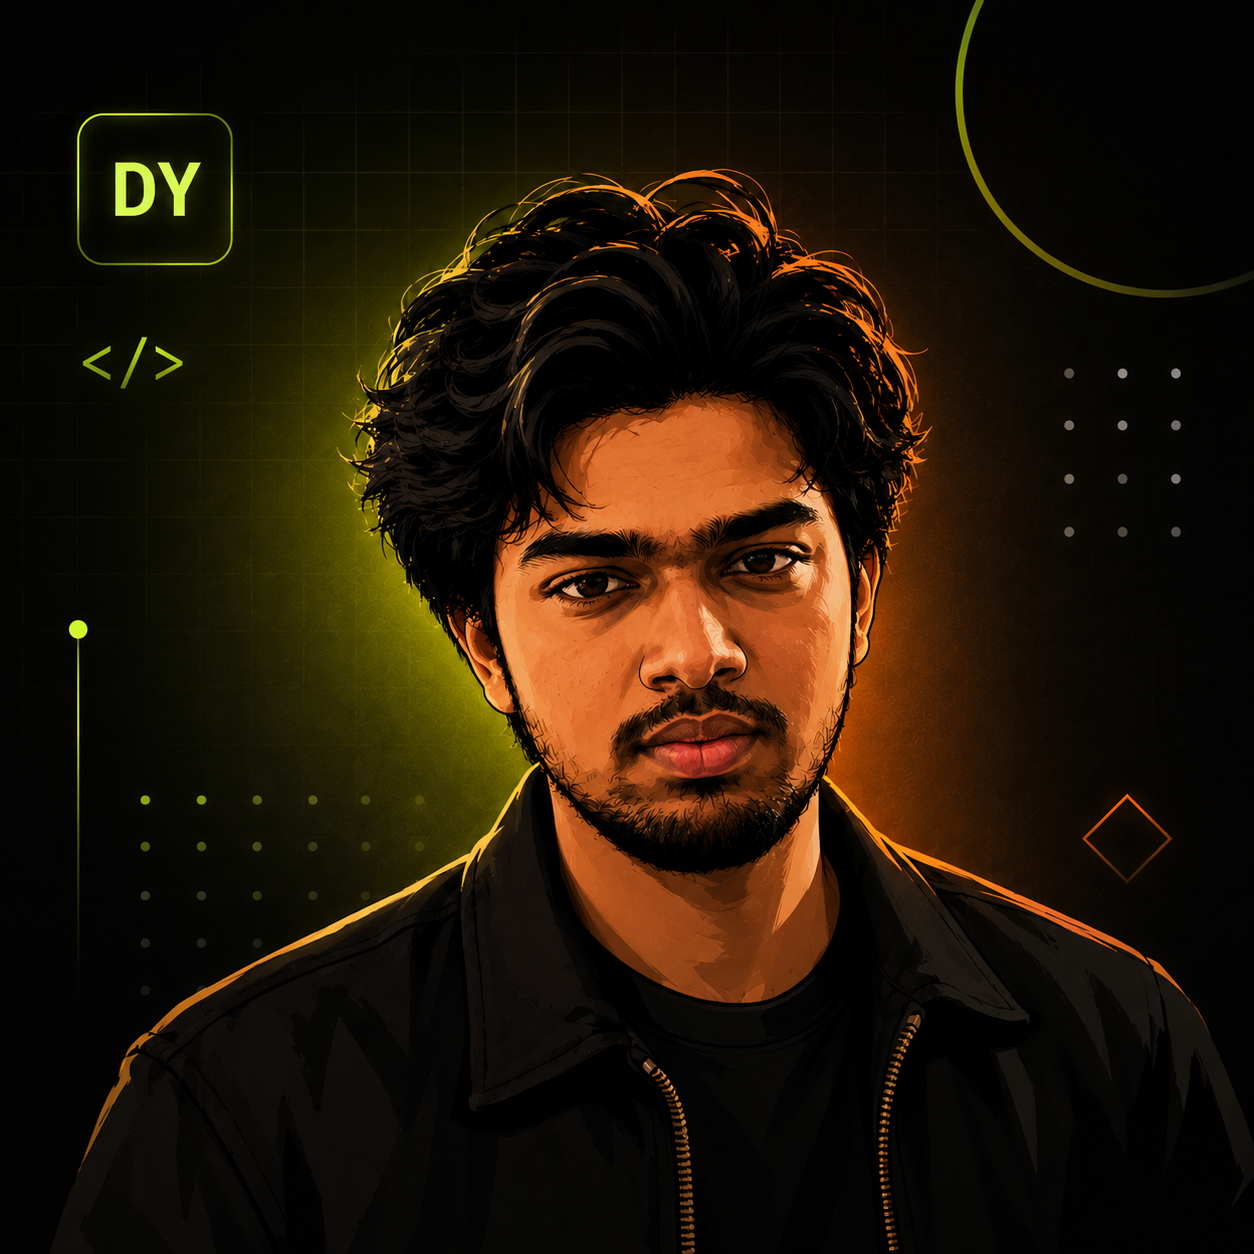
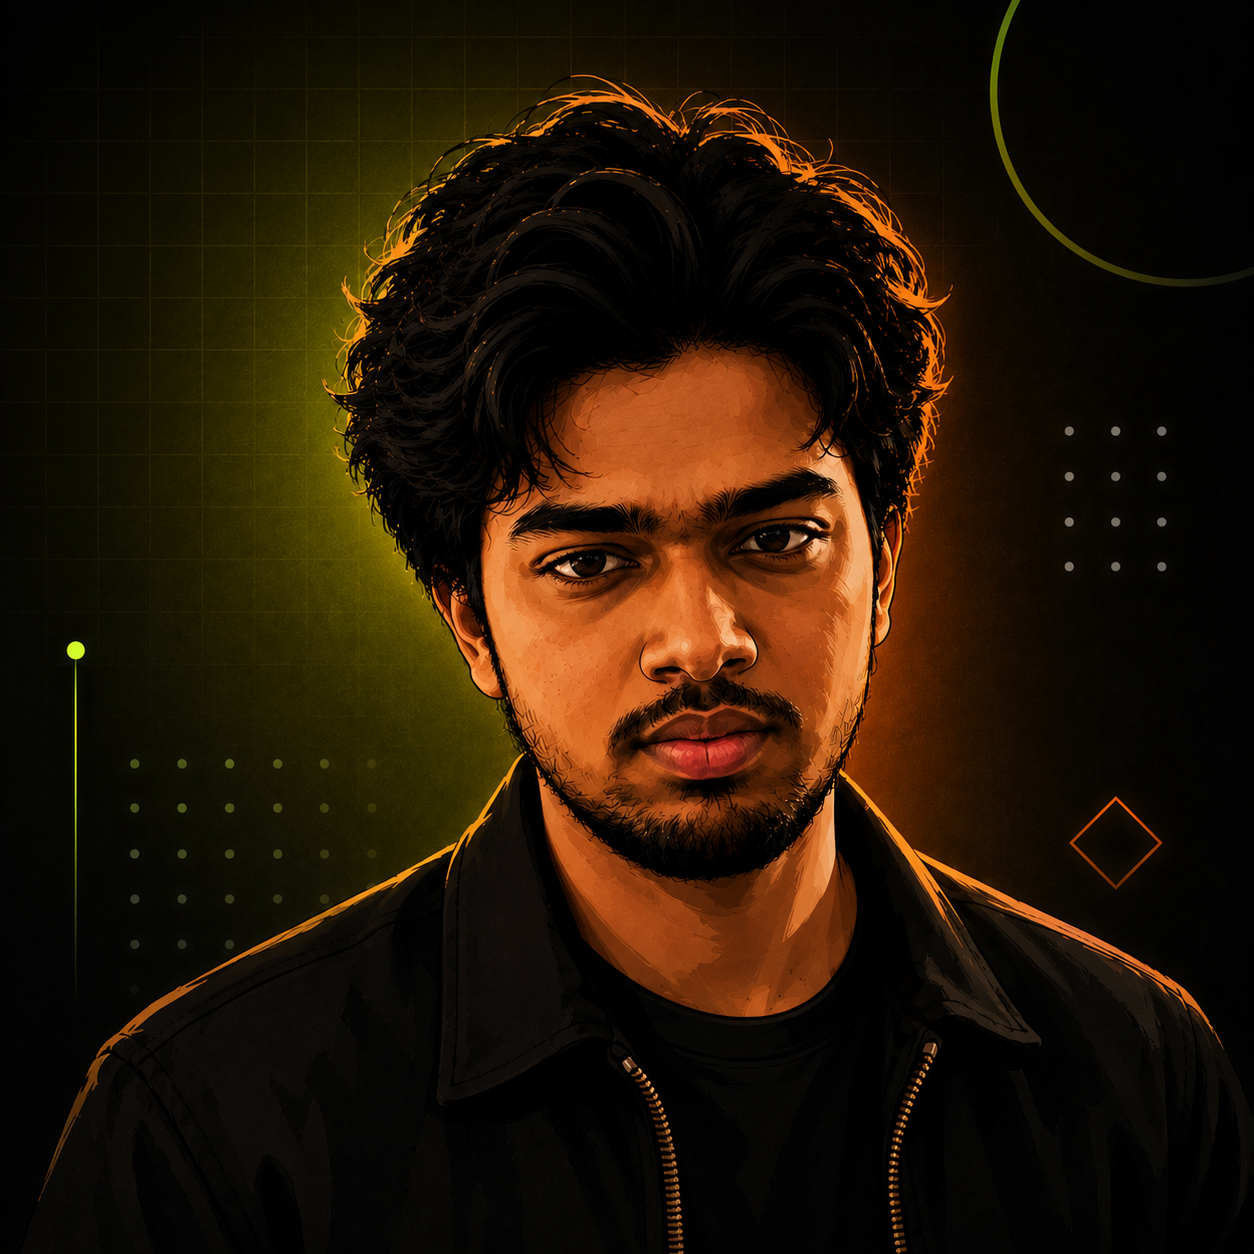
Replace profile image

diff --git a/src/components/ProfileCard.tsx b/src/components/ProfileCard.tsx
@@ -27,7 +27,7 @@ export function ProfileCard() {
                 <span className="text-6xl font-black text-white/10">DY</span>
               </div>
               <img
-                src="/profile-photo.png?v=20260524-1554"
+                src="/profile-photo.png?v=20260524-1609"
                 alt="Danwanth Yogesh"
                 loading="eager"
                 decoding="async"
